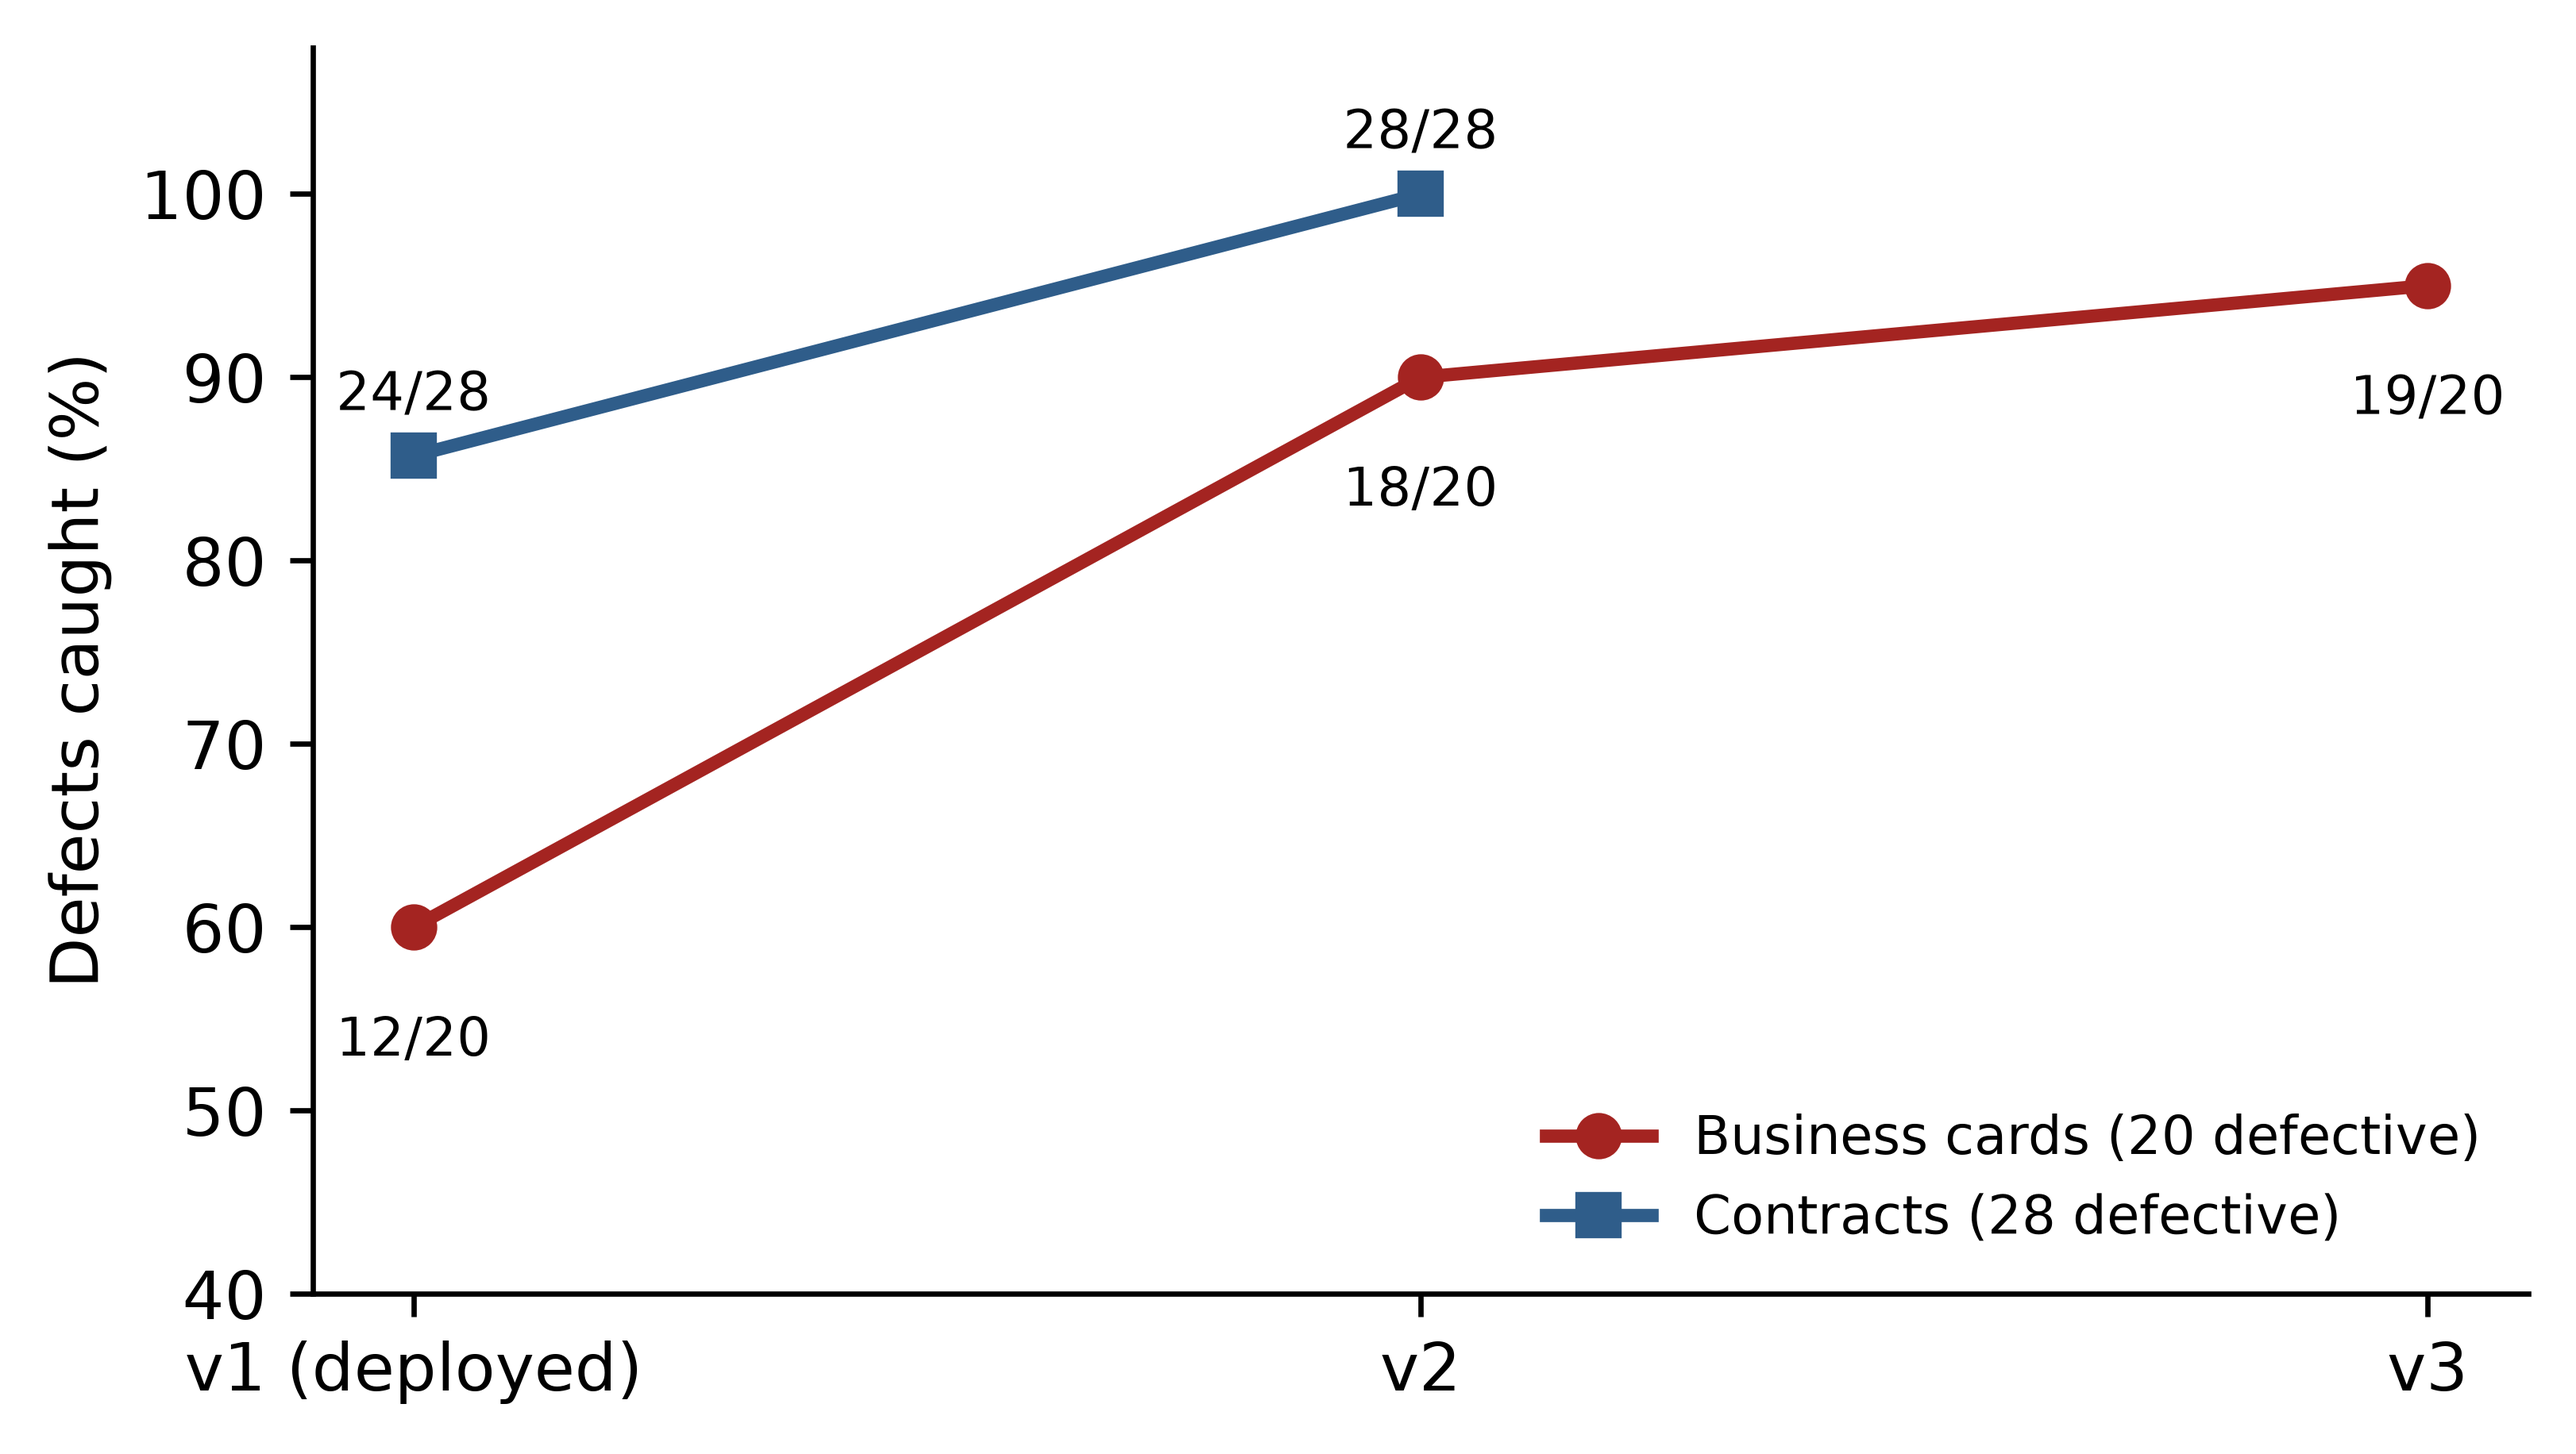
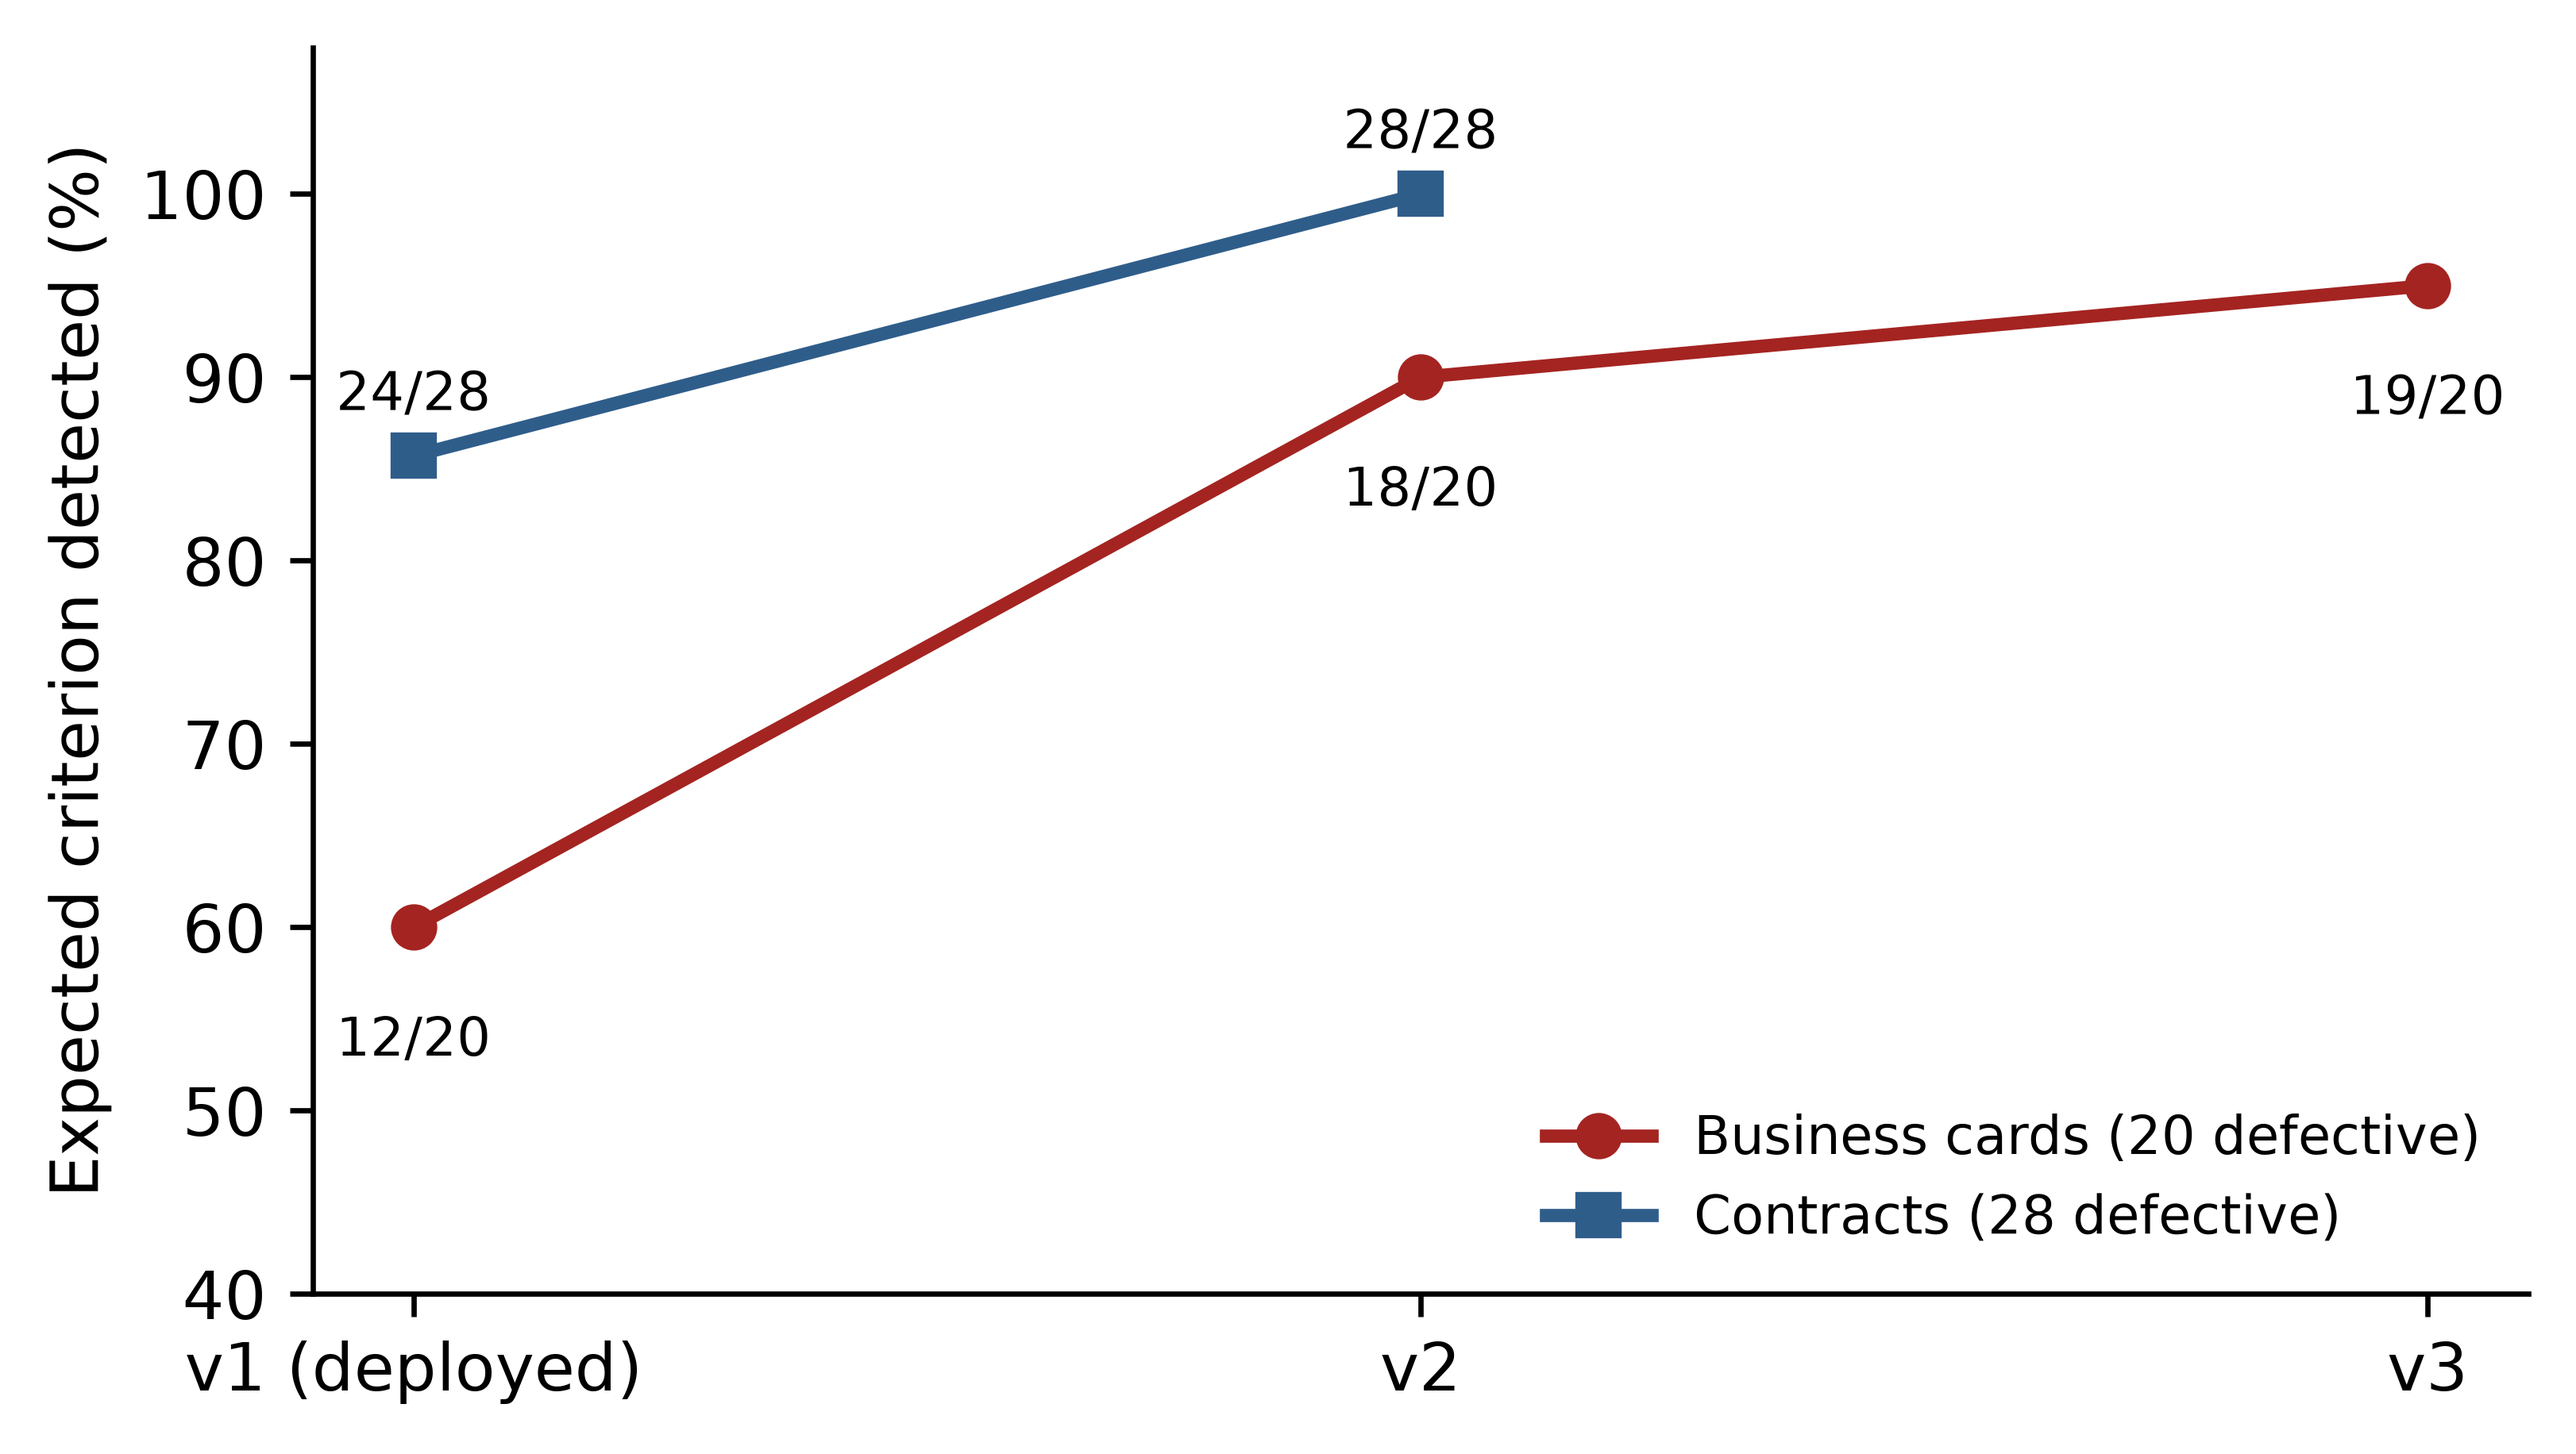
QWK over the complete score scale, identical repeats on complete triples, Figure 4 axis

diff --git a/experiments/ellipse/analyse.py b/experiments/ellipse/analyse.py
@@ -18,7 +18,7 @@ R1 = {i: float(raw.loc[i, "Overall_1"]) for i in ids if i in raw.index}
 R2 = {i: float(raw.loc[i, "Overall_2"]) for i in ids if i in raw.index}
 
 def qwk(a, b):  # quadratic weighted kappa on half-point scale mapped to integers 2..10
-    return cohen_kappa_score([int(round(x * 2)) for x in a], [int(round(x * 2)) for x in b], weights="quadratic")
+    return cohen_kappa_score([int(round(x * 2)) for x in a], [int(round(x * 2)) for x in b], weights="quadratic", labels=list(range(2, 11)))
 def ci(vals, f, n=2000, seed=7):
     rnd = np.random.default_rng(seed); v = np.array(vals, dtype=object); bs = []
     for _ in range(n):
@@ -36,7 +36,7 @@ for c in "ABC":
     m = {i: float(np.mean(scores[c][i])) for i in full}
     first = {i: scores[c][i][0] for i in full}
     sd = [float(np.std(scores[c][i])) for i in full if len(scores[c][i]) >= 2]
-    rng = [max(scores[c][i]) - min(scores[c][i]) for i in full if len(scores[c][i]) >= 2]
+    rng = [max(scores[c][i]) - min(scores[c][i]) for i in full if len(scores[c][i]) == 3]  # all three runs parseable (R8-02)
     mae = float(np.mean([abs(m[i] - H[i]) for i in full]))
     lo, hi = ci(full, lambda s: float(np.mean([abs(m[i] - H[i]) for i in s])))
     d = {"n": len(full), "mae_vs_gold": mae, "mae_ci": [lo, hi],
@@ -46,7 +46,7 @@ for c in "ABC":
          "spearman_mean_vs_gold": float(spearmanr([m[i] for i in full], [H[i] for i in full])[0]),
          "bias_ai_minus_gold": float(np.mean([m[i] - H[i] for i in full])),
          "repeat_sd_mean": float(np.mean(sd)) if sd else None,
-         "share_repeats_identical": float(np.mean([x == 0 for x in rng])) if rng else None}
+         "share_repeats_identical": float(np.mean([x == 0 for x in rng])) if rng else None, "n_identical_denominator": len(rng)}
     out[c] = d
     print(f"  {c}: n={d['n']} MAE {mae:.3f} [{lo:.3f},{hi:.3f}]  QWK(run1 vs gold) {d['qwk_single_run_vs_gold']:.3f}  "
           f"QWK vs r1 {d['qwk_single_run_vs_rater1']:.3f} vs r2 {d['qwk_single_run_vs_rater2']:.3f}  rho {d['spearman_mean_vs_gold']:.3f}  "

diff --git a/experiments/ellipse/human_compare.py b/experiments/ellipse/human_compare.py
@@ -14,7 +14,7 @@ M = (R1 + R2) / 2
 def run1(c):
     d = {(r["id"], r["rep"]): r["out"]["overall"] for r in res if r["cfg"] == c and "out" in r and isinstance(r["out"].get("overall"), (int, float))}
     return np.array([d.get((i, 1), d.get((i, 2), d.get((i, 3), np.nan))) for i in ids])
-qwk = lambda a, b: cohen_kappa_score(np.round(np.clip(a, 1, 5)).astype(int), np.round(b).astype(int), weights="quadratic")  # integer 1-5 scale = scale of individual raters
+qwk = lambda a, b: cohen_kappa_score(np.round(np.clip(a, 1, 5)).astype(int), np.round(b).astype(int), weights="quadratic", labels=list(range(1, 6)))  # integer 1-5 scale = scale of individual raters
 mae = lambda a, b: float(np.mean(np.abs(np.clip(np.round(a), 1, 5) - b)))
 rnd = np.random.default_rng(5); out = {"tag": TAG, "n": len(ids), "human_qwk_int": qwk(R1, R2), "human_mae_int": mae(R1, R2)}
 print(f"[{TAG}] rater1 vs rater2 (integer scale): QWK {out['human_qwk_int']:.3f} MAE {out['human_mae_int']:.3f}")

diff --git a/experiments/ellipse/cross_model.py b/experiments/ellipse/cross_model.py
@@ -16,7 +16,7 @@ LA, LB = load(A_), load(B_)
 def mean(d, c): return np.array([np.mean(d.get((i, c), [np.nan])) for i in ids])
 def spread(d): return np.array([np.ptp([x for c in "ABC" for x in d.get((i, c), [])] or [0]) + np.std([x for c in "ABC" for x in d.get((i, c), [])] or [0]) for i in ids])
 xa, xb = mean(LA, "C"), mean(LB, "C"); m = ~np.isnan(xa) & ~np.isnan(xb)
-qwk = lambda a, b: cohen_kappa_score(np.round(np.clip(a, 1, 5) * 2).astype(int), np.round(b * 2).astype(int), weights="quadratic")
+qwk = lambda a, b: cohen_kappa_score(np.round(np.clip(a, 1, 5) * 2).astype(int), np.round(b * 2).astype(int), weights="quadratic", labels=list(range(2, 11)))
 rnd = np.random.default_rng(9); res = {k: [] for k in ["mae_a", "mae_b", "mae_ens", "qwk_a", "qwk_b", "qwk_ens"]}
 esc = {b: {"cross": [], "selfA": [], "selfB": [], "random": [], "n_large": []} for b in (0.1, 0.2, 0.3)}
 sA, sB = spread(LA), spread(LB)

diff --git a/experiments/ellipse/calibrate.py b/experiments/ellipse/calibrate.py
@@ -9,7 +9,7 @@ res = [json.loads(l) for l in open(RES, encoding="utf-8") if l.strip()]
 ok = [r for r in res if "out" in r and isinstance(r["out"].get("overall"), (int, float))]
 ids = sorted(gold); H = np.array([gold[i]["Overall"] for i in ids])
 S = {c: np.array([np.mean([r["out"]["overall"] for r in ok if r["id"] == i and r["cfg"] == c] or [np.nan]) for i in ids]) for c in "ABC"}
-q = lambda a, b: cohen_kappa_score(np.round(np.clip(a, 1, 5) * 2).astype(int), np.round(b * 2).astype(int), weights="quadratic")
+q = lambda a, b: cohen_kappa_score(np.round(np.clip(a, 1, 5) * 2).astype(int), np.round(b * 2).astype(int), weights="quadratic", labels=list(range(2, 11)))
 rnd = np.random.default_rng(3); out = {"tag": TAG}
 for c in "ABC":
     x = S[c]; m = ~np.isnan(x); maes, qwks = [], []

diff --git a/figures/src/figs.py b/figures/src/figs.py
@@ -104,7 +104,7 @@ for i, v in enumerate(cards):
 for i, v in enumerate(contr):
     ax.text(i + 1, 100 * v / 28 + 2.5, f"{v}/28", ha="center", fontsize=8)
 ax.set_xticks([1, 2, 3]); ax.set_xticklabels(["v1 (deployed)", "v2", "v3"]); ax.set_ylim(40, 108)
-ax.set_ylabel("Defects caught (%)"); ax.legend(frameon=False, fontsize=8, loc="lower right")
+ax.set_ylabel("Expected criterion detected (%)"); ax.legend(frameon=False, fontsize=8, loc="lower right")
 fig.savefig(f"{OUT}/Figure4_iterations.png", dpi=600, bbox_inches="tight"); plt.close(fig)
 print("cards caught v1-v3:", cards, "contracts caught v1-v2:", contr)
 
